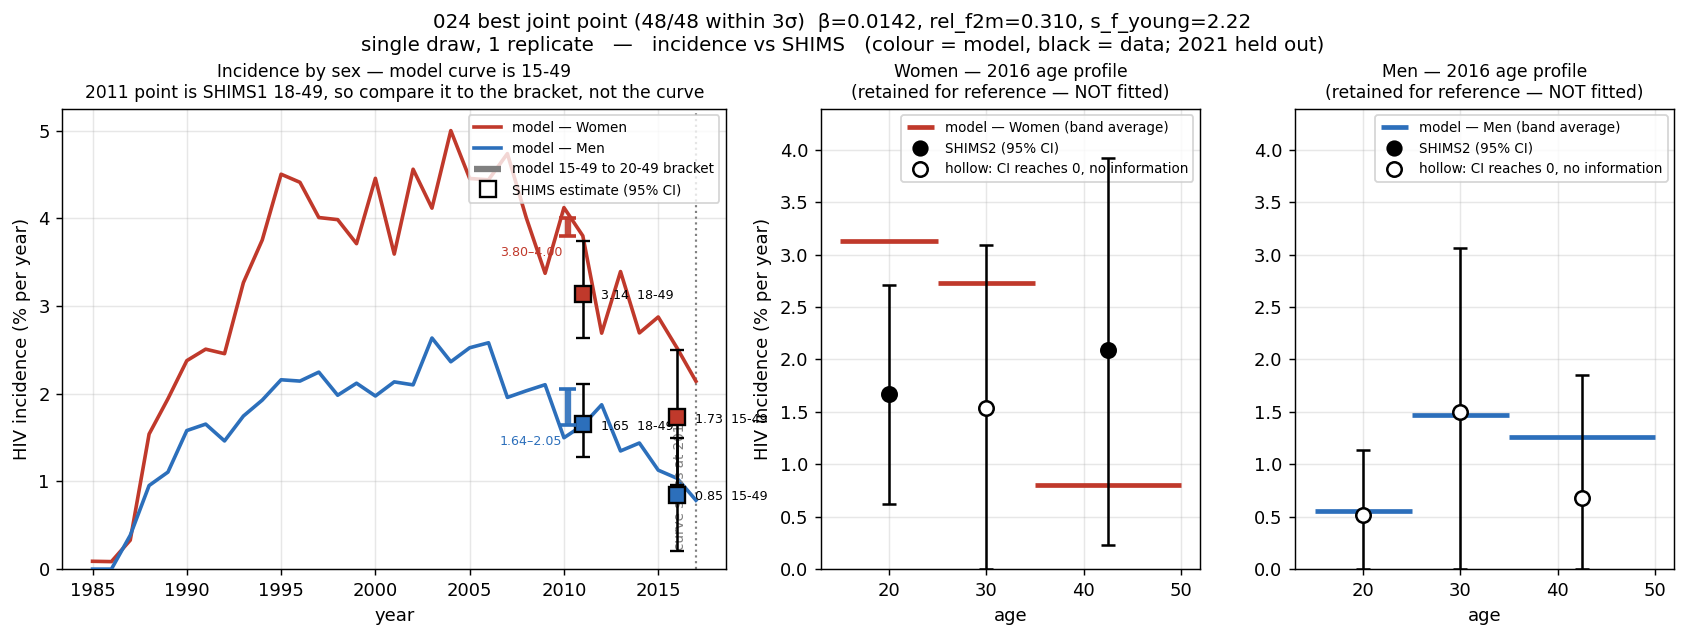
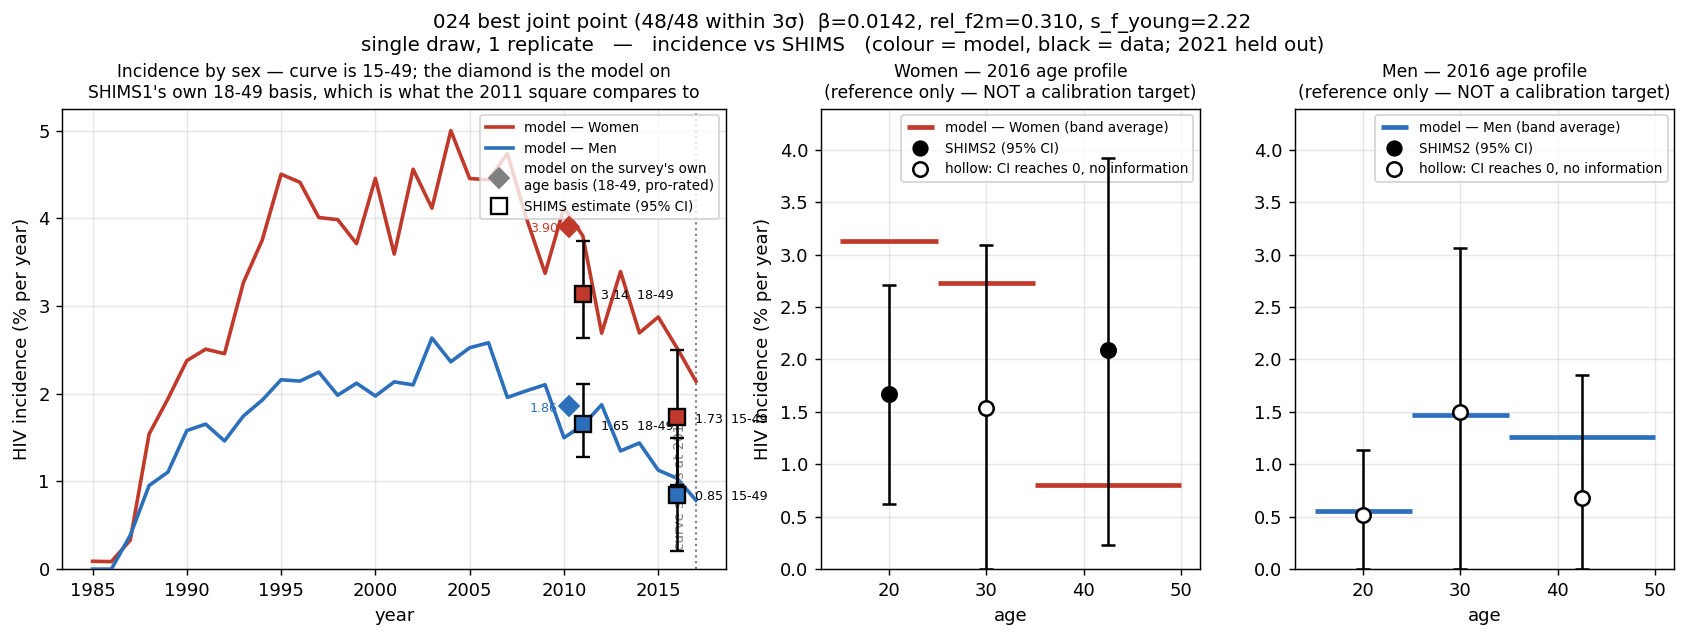
Incidence targets: sex-specific aggregates only, on each survey's own age basis
Two researcher decisions, 2026-09-04.

1. The age-banded incidence rows leave the calibration target sheet entirely.
Agreed without reservation: it is a target sheet, and rows that will never be
fitted do not belong in it. That was not hypothetical -- run.py iterates every
row, so the fit=False flag added earlier today would have been silently ignored
and all ten rows registered. calibration_data/incidence_by_age_sex.csv is now
four rows, all sex-specific adult aggregates. The six SHIMS2 age bands move to
data/shims2_incidence_by_age_REFERENCE_NOT_A_TARGET.csv, under a name that
cannot be mistaken for a target, so the age-profile figure and the
false-recency argument keep their data. build() now asserts both invariants.

2. On making SHIMS1's 18-49 comparable to the model, I pushed back on adjusting
the DATA and did the reverse instead. Moving the point to 15-49 needs an
incidence for 15-17, and the only sources are SHIMS2's 15-24 cell -- the most
FRR-contaminated female band, and the reason we are dropping age bands in the
first place -- or the model itself, which is circular: the target would be
partly derived from the thing it constrains.

Moving the MODEL to 18-49 needs no such assumption. Pro-rate the 15-19 band to
2/5 of its person-time and 18-49 is expressible exactly on 5-year bands, given
only that incidence is roughly flat across 15-19. Neither the survey nor the
pro-rated estimate includes 15-17, so nothing has to be invented.
[…]

diff --git a/standard_figures.py b/standard_figures.py
@@ -332,6 +332,8 @@ def plot_prevalence_fit(df, label, outpath, kind="arm", tg=None, stamp=None):
 #     (1 - prevalence), which at Eswatini's prevalence is a ~30% error.
 
 INC_TARGETS = "calibration_data/incidence_by_age_sex.csv"
+# The excluded age bands. Not a target sheet -- see incidence_construction.py.
+INC_REFERENCE = "data/shims2_incidence_by_age_REFERENCE_NOT_A_TARGET.csv"
 INC_CUTOFF = 2017.0   # last year worth plotting: just past the 2016 target
 
 
@@ -346,19 +348,39 @@ def load_inc_targets(path=None):
     return pd.read_csv(root / (path or INC_TARGETS))
 
 
-def _inc_series(df, sex, lo, hi):
-    """Annual incidence % over time for one sex and age range, over susceptibles."""
+def load_inc_reference(path=None):
+    """The excluded SHIMS2 age bands, for reference panels only. Never a target."""
+    root = Path(__file__).parent
+    f = root / (path or INC_REFERENCE)
+    return pd.read_csv(f) if f.exists() else pd.DataFrame()
+
+
+def _inc_series(df, sex, lo, hi, prorate_first=1.0):
+    """Annual incidence % over time for one sex and age range, over susceptibles.
+
+    `prorate_first` down-weights the FIRST 5-year band's person-time, which is
+    how an 18-49 estimate is expressed on 5-year bands: 18-19 is 2/5 of 15-19,
+    so prorate_first=0.4. Assumes incidence is roughly flat within that band and
+    needs no assumption about 15-17, because both the survey and the pro-rated
+    estimate exclude them.
+
+    Without this, run.py compared a model 15-50 estimate to SHIMS1's 18-49
+    target. That flipped the sign of the 2011 male residual, because male
+    incidence is near zero at 15-19 and including it dilutes the average.
+    """
     lo, hi = (lo // 5) * 5, -(-hi // 5) * 5
     new = alv = inf = None
-    for b in range(lo, hi, 5):
+    for i, b in enumerate(range(lo, hi, 5)):
+        w = prorate_first if i == 0 else 1.0
         nc = f"popagesex.new_infections_{sex}_{b}_{b + 5}"
         if nc not in df.columns:
             return None
-        new = df[nc] if new is None else new + df[nc]
-        alv = df[f"popagesex.n_alive_{sex}_{b}_{b + 5}"] if alv is None \
-            else alv + df[f"popagesex.n_alive_{sex}_{b}_{b + 5}"]
-        inf = df[f"popagesex.n_infected_{sex}_{b}_{b + 5}"] if inf is None \
-            else inf + df[f"popagesex.n_infected_{sex}_{b}_{b + 5}"]
+        n_ = w * df[nc]
+        a_ = w * df[f"popagesex.n_alive_{sex}_{b}_{b + 5}"]
+        i_ = w * df[f"popagesex.n_infected_{sex}_{b}_{b + 5}"]
+        new = n_ if new is None else new + n_
+        alv = a_ if alv is None else alv + a_
+        inf = i_ if inf is None else inf + i_
     susc = alv - inf
     return 100.0 * new / susc.where(susc > 0)
 AGG_INC = "data/eswatini_ppdv.csv"
@@ -463,40 +485,38 @@ def plot_incidence_fit(df, label, outpath, kind="arm", tg=None, stamp=None,
         ax.annotate(f"{r.Inc:.2f}  {r.AgeCat}", (r.Year, r.Inc),
                     textcoords="offset points", xytext=(10, -3), fontsize=7,
                     color="black")
+        # Where the published range is not 15-49, put the MODEL on the survey's
+        # basis by pro-rating the first band, and plot that as the honest
+        # comparison. 18-19 is 2/5 of 15-19, so prorate_first=0.4. Adjusting the
+        # data the other way would need a 15-17 incidence we have no source for.
         lo_age = int(str(r.AgeCat).split("-")[0])
         if lo_age == 15:
             continue
         mismatch = True
-        brack = []
-        for a in (15, 20):     # 5-year bands cannot express 18; bracket it
-            s = _inc_series(df[np.floor(df.timevec) == r.Year], sex=r.sex,
-                            lo=a, hi=50)
-            if s is None or not len(s):
-                continue
-            v = s.dropna()
-            brack.append(v.median() if kind == "ensemble" else v.mean())
-        if len(brack) == 2:
-            x = r.Year - 0.8
-            ax.vlines(x, min(brack), max(brack), color=cols[r.sex], lw=3.5,
-                      alpha=0.9, zorder=7)
-            ax.hlines([min(brack), max(brack)], x - 0.45, x + 0.45,
-                      color=cols[r.sex], lw=2, zorder=7)
-            ax.annotate(f"{min(brack):.2f}–{max(brack):.2f}", (x, min(brack)),
-                        textcoords="offset points", xytext=(-3, -11),
-                        ha="right", fontsize=7, color=cols[r.sex])
+        s = _inc_series(df[np.floor(df.timevec) == r.Year], sex=r.sex, lo=15,
+                        hi=50, prorate_first=(5 - (lo_age - 15)) / 5)
+        if s is None or not len(s):
+            continue
+        v = s.dropna()
+        pv = float(v.median() if kind == "ensemble" else v.mean())
+        ax.plot(r.Year - 0.75, pv, marker="D", ms=8, mfc=cols[r.sex],
+                mec=cols[r.sex], zorder=7)
+        ax.annotate(f"{pv:.2f}", (r.Year - 0.75, pv),
+                    textcoords="offset points", xytext=(-6, -3), ha="right",
+                    fontsize=7, color=cols[r.sex])
     ax.errorbar([], [], fmt="s", mfc="white", mec="black", mew=1.3, ms=9,
                 ecolor="black", capsize=4, label="SHIMS estimate (95% CI)")
     if mismatch:
-        ax.vlines([], [], [], color="grey", lw=3.5,
-                  label="model 15-49 to 20-49 bracket")
+        ax.plot([], [], marker="D", ms=8, ls="none", mfc="grey", mec="grey",
+                label="model on the survey's own\nage basis (18-49, pro-rated)")
     ax.axvline(cutoff, ls=":", c="grey", lw=1.2)
     ax.annotate(f"curve stops at {cutoff:.0f}", (cutoff, 0),
                 textcoords="offset points", xytext=(-5, 12), ha="right",
                 fontsize=7.5, color="grey", rotation=90)
     ax.set_xlabel("year"); ax.set_ylabel("HIV incidence (% per year)")
-    ax.set_title("Incidence by sex — model curve is 15-49\n"
-                 "2011 point is SHIMS1 18-49, so compare it to the bracket, "
-                 "not the curve", fontsize=9.5)
+    ax.set_title("Incidence by sex — curve is 15-49; the diamond is the model on\n"
+                 "SHIMS1's own 18-49 basis, which is what the 2011 square "
+                 "compares to", fontsize=9.5)
     ax.legend(fontsize=7.5, loc="upper right"); ax.set_ylim(bottom=0)
     ax.grid(alpha=0.3)
 
@@ -504,8 +524,9 @@ def plot_incidence_fit(df, label, outpath, kind="arm", tg=None, stamp=None,
     # `tg` now also carries the 15-49 aggregates as fitting rows, and a 35-year
     # "band" is an aggregate, not a band -- drawing it here made a whole-adult
     # average look like a fourth age stratum.
-    bands = tg[(tg.year == 2016) & ((tg.age_high - tg.age_low) < 25)]
-    not_fitted = "fit" in tg.columns and not bands.fit.any() if len(bands) else False
+    ref = load_inc_reference()
+    bands = ref[ref.year == 2016] if len(ref) else ref
+    not_fitted = True          # by construction: the reference file is not a target
     ymax = 0.0
     for k, sex in enumerate(("f", "m")):
         ax = axes[k + 1]
@@ -537,7 +558,7 @@ def plot_incidence_fit(df, label, outpath, kind="arm", tg=None, stamp=None,
                         label="hollow: CI reaches 0, no information")
         ax.set_xlabel("age"); ax.set_xlim(13, 52)
         ax.set_title(f"{names[sex]} — 2016 age profile"
-                     + ("\n(retained for reference — NOT fitted)"
+                     + ("\n(reference only — NOT a calibration target)"
                         if not_fitted else ""), fontsize=9.5)
         ax.legend(fontsize=7.5, loc="upper right"); ax.grid(alpha=0.3)
         if k == 0:
@@ -588,9 +609,10 @@ def plot_incidence_age_profile(df, label, outpath, years=(2011, 2016),
         # An "age band" spanning 25+ years is an AGGREGATE, not a band. SHIMS1's
         # only 2011 row is 18-49, and drawing it like a band would invite reading
         # a whole-adult average as a measured age profile.
-        b = tg[tg.year == year]
-        span = b.age_high - b.age_low
-        banded, aggregate = b[span < 25], b[span >= 25]
+        ref = load_inc_reference()
+        banded = ref[ref.year == year] if len(ref) else pd.DataFrame(
+            columns=["sex", "age_low", "age_high", "incidence_pct", "uninformative"])
+        aggregate = tg[tg.year == year]        # the fitted rows
         for _, t in banded.iterrows():
             ax.hlines(t.incidence_pct, t.age_low, min(t.age_high, age_max),
                       color="black", lw=2.2,

diff --git a/incidence_construction.py b/incidence_construction.py
@@ -84,6 +84,10 @@ import numpy as np
 import pandas as pd
 
 OUT = "calibration_data/incidence_by_age_sex.csv"
+# The six age-banded rows are NOT calibration targets and are written here
+# instead, under a name that cannot be mistaken for one. They stay available for
+# the age-profile figure and for the false-recency argument.
+OUT_REF = "data/shims2_incidence_by_age_REFERENCE_NOT_A_TARGET.csv"
 
 # (year, sex, age_low, age_high): (incidence_pct, lb, ub, source)
 # Percentage annual incidence, i.e. per 100 person-years.
@@ -115,13 +119,24 @@ AGG_15_49 = {
     (2016, "m"): (0.85, 0.21, 1.49), (2016, "f"): (1.73, 0.96, 2.50),
 }
 
-# Aggregation-span sigma for the 2011 rows only, measured over exp 024's
-# 1000-draw ensemble as half the gap between the model's 15-50 and 20-50
-# estimates. SHIMS1 publishes 18-49; PopByAgeSex works in 5-year bands, so the
-# model can bracket that range but not express it. Half the bracket width is the
-# irreducible aggregation uncertainty. Researcher decision 2026-09-04: widen
-# sigma rather than pretend to a precision the bands cannot deliver.
-SIGMA_AGG_2011 = {"f": 0.126, "m": 0.194}
+# SUPERSEDED 2026-09-04 (same day). This was an aggregation sigma of f 0.126,
+# m 0.194, added because SHIMS1 publishes 18-49 while PopByAgeSex works in
+# 5-year bands, so 18-49 looked bracketable but not expressible.
+#
+# It IS expressible. Pro-rate the 15-19 band to 2/5 of its person-time and the
+# model lands on the survey's own basis, needing only that incidence is roughly
+# flat across 15-19 -- no assumption about 15-17 incidence, because the survey
+# excludes them and so does the pro-rated estimate. Model 18-49 then comes out
+# at f 3.11 and m 1.70 against targets of 3.14 and 1.65, i.e. z = -0.11 and
+# +0.19, against -0.04 and -0.49 on the naive 15-49 basis.
+#
+# So the sigma widening is removed and the published CI stands alone. The
+# `model_age_basis` column tells the consumer how to compute the model side.
+# Note the direction of travel: putting the MODEL on the DATA's basis makes the
+# targets sharper, where adjusting the data to the model's basis would have
+# required inventing a 15-17 incidence from either the FRR-contaminated SHIMS2
+# 15-24 cell or from the model itself, which would be circular.
+BAND_PRORATE = 0.4       # 18-19 is 2/5 of the 15-19 band
 
 FIT_POLICY = """\
 Fitted rows are the adult aggregates only; the age-banded rows are retained for
@@ -148,71 +163,73 @@ which is recorded in exp 024 rather than hidden.
 """
 
 
-def _sigma(lb, ub, year, sex):
-    """Sigma for a fitting row: published CI, plus the 2011 aggregation term."""
-    sd = (ub - lb) / 3.92
-    if year == 2011:
-        sd = float(np.hypot(sd, SIGMA_AGG_2011[sex]))
-    return sd
+def _model_basis(year):
+    """How the model side must be computed to match this row's published range.
+
+    Consumed by run.py. Spelling it out in the file beats a convention nobody
+    reads: run.py previously compared a model 15-50 estimate to an 18-49 target
+    and nothing in the data said it was wrong.
+    """
+    return "18_50_prorate_first_band_0.4" if year == 2011 else "15_50"
 
 
 def build():
-    rows = []
-
-    # --- Fitted: the adult aggregates ---
+    """Returns (targets, reference, ratios). Targets are aggregates ONLY."""
+    tgt = []
     for (year, sex), (val, lb, ub) in AGG_15_49.items():
         lo, hi = (18, 50) if year == 2011 else (15, 50)
-        src = ("SHIMS1 2011 (cohort), 18-49" if year == 2011
-               else "SHIMS2 Table 5.3.B, 15-49")
-        rows.append(dict(
-            year=year, sex=sex, age_low=lo, age_high=hi,
-            incidence_pct=val, lb=lb, ub=ub, ci_width=ub - lb,
-            uninformative=(lb <= 0.0), sigma=_sigma(lb, ub, year, sex),
-            fit=True, source=src))
-
-    # --- Retained, NOT fitted: the age bands ---
-    # Kept so the provenance and the false-recency argument stay auditable, and
-    # so a later wave can reinstate them if the FRR concern is resolved.
-    for (year, sex, lo, hi), (val, lb, ub, src) in OBS.items():
-        if (year, sex, lo, hi) in [(2011, "m", 18, 50), (2011, "f", 18, 50)]:
-            continue                      # already emitted as an aggregate above
-        rows.append(dict(
+        tgt.append(dict(
             year=year, sex=sex, age_low=lo, age_high=hi,
             incidence_pct=val, lb=lb, ub=ub, ci_width=ub - lb,
             uninformative=(lb <= 0.0), sigma=(ub - lb) / 3.92,
-            fit=False, source=src + " -- age shape not trusted, see FIT_POLICY"))
+            model_age_basis=_model_basis(year),
+            source=("SHIMS1 2011 (longitudinal cohort), 18-49" if year == 2011
+                    else "SHIMS2 Table 5.3.B, 15-49")))
+    df = pd.DataFrame(tgt).sort_values(["year", "sex"])
 
-    df = pd.DataFrame(rows).sort_values(["fit", "year", "sex", "age_low"],
-                                        ascending=[False, True, True, True])
+    # Not targets. Kept so the age profile stays plottable and the FRR argument
+    # auditable, under a filename that cannot be mistaken for a target sheet.
+    ref = []
+    for (year, sex, lo, hi), (val, lb, ub, src) in OBS.items():
+        if hi - lo >= 25:
+            continue                       # the aggregates, already emitted
+        ref.append(dict(
+            year=year, sex=sex, age_low=lo, age_high=hi,
+            incidence_pct=val, lb=lb, ub=ub, ci_width=ub - lb,
+            uninformative=(lb <= 0.0), source=src,
+            excluded_because="age shape not trusted; see FIT_POLICY"))
+    ref_df = pd.DataFrame(ref).sort_values(["year", "sex", "age_low"])
 
-    # Derived: female:male incidence ratio, more robust to the recency assay's
-    # mean-duration assumption than the absolute levels are. Unaffected by the
-    # band decision -- it was always built from the aggregates.
     ratios = []
     for year in sorted({y for y, _ in AGG_15_49}):
         m, f = AGG_15_49[(year, "m")][0], AGG_15_49[(year, "f")][0]
-        ratios.append(dict(year=year, quantity="fm_ratio_15_49",
-                           value=f / m,
+        ratios.append(dict(year=year, quantity="fm_ratio_15_49", value=f / m,
                            note=f"female {f} / male {m}, published aggregates"))
     ratio_df = pd.DataFrame(ratios)
 
-    # Consistency: each round's age bands should straddle its published total.
+    # The excluded bands should still straddle their own published total -- a
+    # transcription check that survives the exclusion.
     for year in (2016,):
         for sex in ("m", "f"):
-            bands = df[(df.year == year) & (df.sex == sex) & ~df.fit].incidence_pct
+            bands = ref_df[(ref_df.year == year) & (ref_df.sex == sex)].incidence_pct
             total = AGG_15_49[(year, sex)][0]
             assert bands.min() <= total <= bands.max(), (
                 f"{year} {sex}: published total {total} outside its own band "
                 f"range [{bands.min()}, {bands.max()}] -- check transcription")
-    return df, ratio_df
+    assert len(df) == 4, f"expected 4 fitting rows, got {len(df)}"
+    assert not (df.age_high - df.age_low < 25).any(), "an age band leaked in"
+    return df, ref_df, ratio_df
 
 
 if __name__ == "__main__":
-    df, ratio_df = build()
-    df.to_csv(OUT, index=False)
+    df, ref_df, ratio_df = build()
     print(FIT_POLICY)
-    print(f"wrote {OUT}: {len(df)} rows, {int(df.fit.sum())} FITTED "
-          f"({int(df.uninformative.sum())} flagged uninformative)\n")
+    df.to_csv(OUT, index=False)
+    ref_df.to_csv(OUT_REF, index=False)
+    print(f"wrote {OUT}: {len(df)} FITTING rows (sex-specific aggregates only)")
     print(df.to_string(index=False))
-    print("\nderived targets:")
+    print(f"\nwrote {OUT_REF}: {len(ref_df)} rows, NOT calibration targets")
+    print(ref_df[["year", "sex", "age_low", "age_high", "incidence_pct",
+                  "lb", "ub", "uninformative"]].to_string(index=False))
+    print("\nderived (not emitted as a target row):")
     print(ratio_df.round(3).to_string(index=False))
